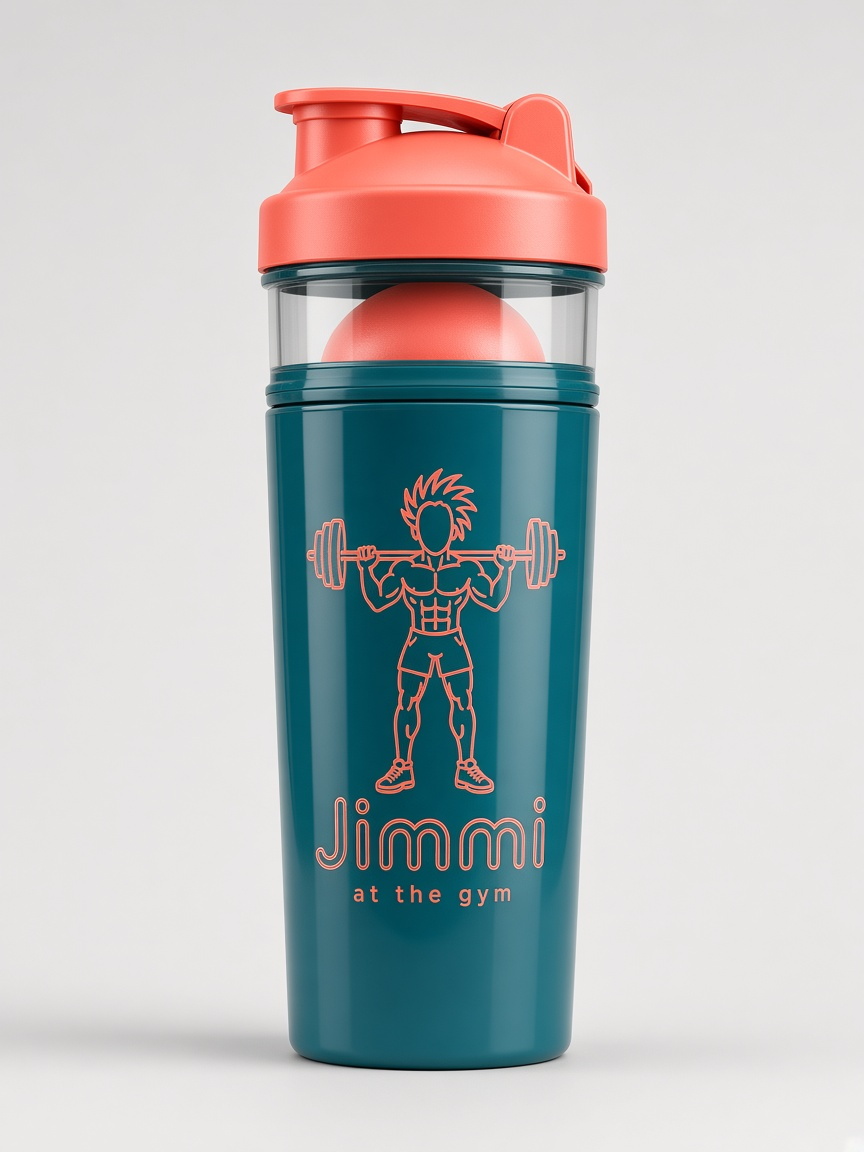
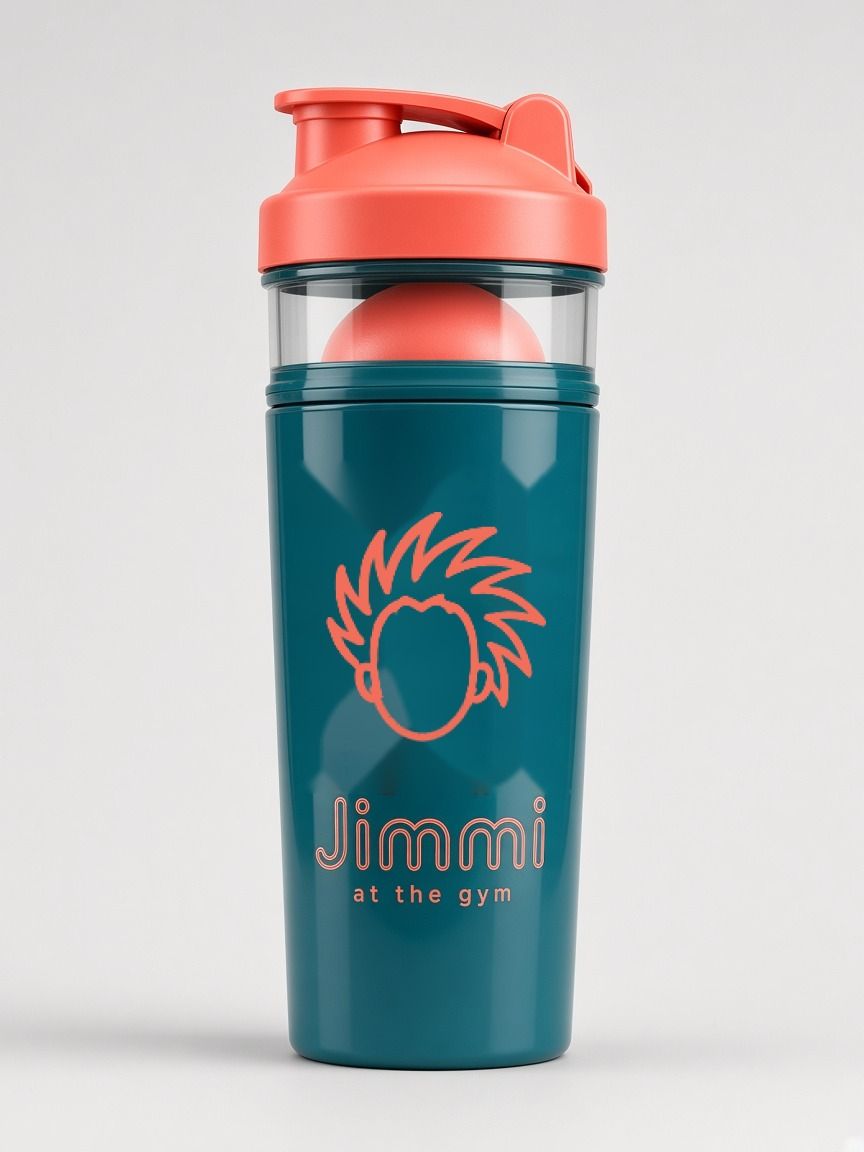
Swap Buff Jimmi for Jimmi head on Teal&Coral 7/8, Navy&Yellow, Peach Crop, Shaker

Changed region(s): [[0.3438, 0.4062, 0.6562, 0.6875]]

diff --git a/products.js b/products.js
@@ -3,16 +3,16 @@ window.JIMMI_PRODUCTS = [
   {"id": "leggings-burgundy-gold", "name": "Burgundy & Gold Leggings", "blurb": "Burgundy leggings with a gold Jimmi head belt buckle on the front, gold stripes down both sides, and \"If Jimmi can do it, anyone can.\" on the back waistband.", "sku": "Preview · price TBD", "image": "assets/products/print/A1-burgundy-gold-leggings.jpg", "etsyUrl": "https://www.etsy.com", "tag": "New · Women"},
   {"id": "leggings-military-green", "name": "Military Green Leggings", "blurb": "Military green leggings with a white waistband reading \"Buff Jimmi\" and a white JIMMI down the lower leg, and a green Jimmi head on the back band.", "sku": "Preview · price TBD", "image": "assets/products/print/military-green-leggings.jpg", "etsyUrl": "https://www.etsy.com", "tag": "New · Women"},
   {"id": "leggings-navy-gold", "name": "Navy & Gold Leggings", "blurb": "Navy leggings with gold side stripes, a small gold Jimmi head belt buckle on the waistband, and the gold \"Jimmi / at the gym\" wordmark on the hip.", "sku": "Preview · price TBD", "image": "assets/products/print/T1-navy-gold-leggings.jpg", "etsyUrl": "https://www.etsy.com", "tag": "New · Women"},
-  {"id": "leggings-teal-coral-78", "name": "Teal & Coral 7/8 Leggings", "blurb": "Teal 7/8 leggings with a coral waistband, coral \"Jimmi at the gym\" down the outer left thigh, Buff Jimmi logo on the back waistband.", "sku": "Preview · price TBD", "image": "assets/products/print/A2-teal-coral-leggings.jpg", "etsyUrl": "https://www.etsy.com", "tag": "New · Women"},
-  {"id": "shaker-teal-coral", "name": "Teal & Coral Shaker", "blurb": "Glossy teal shaker bottle with a coral lid and the coral Buff Jimmi logo and wordmark. Pairs with the Teal & Coral 7/8 Leggings.", "sku": "Preview · price TBD", "image": "assets/products/print/B2-teal-coral-shaker.jpg", "etsyUrl": "https://www.etsy.com", "tag": "New · Shaker"},
-  {"id": "peach-crop", "name": "The Peach Crop", "blurb": "Peach crop hoodie with sky-blue neon Buff Jimmi on the chest.", "sku": "Preview · price TBD", "image": "assets/products/new/peach-crop.jpg", "etsyUrl": "https://www.etsy.com", "tag": "New · Women"},
+  {"id": "leggings-teal-coral-78", "name": "Teal & Coral 7/8 Leggings", "blurb": "Teal 7/8 leggings with a coral waistband, coral \"Jimmi at the gym\" down the outer left thigh, white Jimmi head logo on the back waistband.", "sku": "Preview · price TBD", "image": "assets/products/print/A2-teal-coral-leggings.jpg", "etsyUrl": "https://www.etsy.com", "tag": "New · Women"},
+  {"id": "shaker-teal-coral", "name": "Teal & Coral Shaker", "blurb": "Glossy teal shaker bottle with a coral lid and the coral Jimmi head logo and wordmark. Pairs with the Teal & Coral 7/8 Leggings.", "sku": "Preview · price TBD", "image": "assets/products/print/B2-teal-coral-shaker.jpg", "etsyUrl": "https://www.etsy.com", "tag": "New · Shaker"},
+  {"id": "peach-crop", "name": "The Peach Crop", "blurb": "Peach crop hoodie with a sky-blue neon Jimmi head on the chest.", "sku": "Preview · price TBD", "image": "assets/products/new/peach-crop.jpg", "etsyUrl": "https://www.etsy.com", "tag": "New · Women"},
   {"id": "gym-tee-neon", "name": "Jimmi Gym Tee — Black Neon", "blurb": "Athletic tee with the original neon Buff Jimmi logo. Sizes XS–2XL.", "sku": "Preview · price TBD", "image": "assets/products/print/gym-tee-black-print.jpg", "etsyUrl": "https://www.etsy.com", "tag": "New · Gym Tee"},
   {"id": "sky-pants", "name": "Sky Blue Pants", "blurb": "JIMMI down the leg with the logo under it.", "sku": "Preview · price TBD", "image": "assets/products/print/sky-pants-print.jpg", "etsyUrl": "https://www.etsy.com", "tag": "New · Women"},
   {"id": "tee4-white", "name": "Tee 4 — White", "blurb": "Buff Jimmi logo with red hair, black and red sleeve stripes. \"Got your jimmies on?\" on the back.", "sku": "Preview · price TBD", "image": "assets/products/print/tee4-white-print.jpg", "etsyUrl": "https://www.etsy.com", "tag": "New · Tee"},
   {"id": "ls3-black", "name": "Long Sleeve 3 — Black", "blurb": "White Buff Jimmi logo, red hair, red and white sleeve stripes.", "sku": "Preview · price TBD", "image": "assets/products/print/ls3-black-print.jpg", "etsyUrl": "https://www.etsy.com", "tag": "New · Long Sleeve"},
   {"id": "ls2-white", "name": "Long Sleeve 2 — White", "blurb": "Smooth jersey long sleeve with the Tee 4 design.", "sku": "Preview · price TBD", "image": "assets/products/print/ls2-white-print.jpg", "etsyUrl": "https://www.etsy.com", "tag": "New · Long Sleeve"},
   {"id": "tee6-black", "name": "Tee 6 — Black", "blurb": "White Buff Jimmi logo, red hair, printed red and white stripes over the shoulders and down the sleeves.", "sku": "Preview · price TBD", "image": "assets/products/print/tee6-black-print-v3.jpg", "etsyUrl": "https://www.etsy.com", "tag": "New · Tee"},
-  {"id": "leggings-navy-yellow", "name": "Navy & Yellow Leggings", "blurb": "Full-length high-waist leggings, yellow JIMMI wordmark down the leg, Buff Jimmi logo on the calf.", "sku": "Preview · price TBD", "image": "assets/products/print/leggings-A1.jpg", "etsyUrl": "https://www.etsy.com", "tag": "New · Women"},
+  {"id": "leggings-navy-yellow", "name": "Navy & Yellow Leggings", "blurb": "Full-length high-waist leggings, yellow JIMMI wordmark down the leg, Jimmi head logo on the calf.", "sku": "Preview · price TBD", "image": "assets/products/print/leggings-A1.jpg", "etsyUrl": "https://www.etsy.com", "tag": "New · Women"},
   {"id": "leggings-black-red", "name": "Black & Red 7/8 Leggings", "blurb": "Black 7/8 leggings with a thin red side stripe and a red \"Jimmi at the gym\" down the thigh. Clean and simple.", "sku": "Preview · price TBD", "image": "assets/products/print/leggings-A2-v2.jpg", "etsyUrl": "https://www.etsy.com", "tag": "New · Women"},
   {"id": "leggings-teal-coral", "name": "Teal & Coral Color-Block Leggings", "blurb": "Teal on top, coral below, with a teal JIMMI and \"at the gym\" down the lower leg. No logo, just the wordmark.", "sku": "Preview · price TBD", "image": "assets/products/print/leggings-A4-v2.jpg", "etsyUrl": "https://www.etsy.com", "tag": "New · Women"},
   {"id": "leggings-cobalt-orange", "name": "Cobalt & Orange 7/8 Leggings", "blurb": "7/8-length cobalt leggings, orange wordmark on the thigh, orange Jimmi head on the ankle, and \"If Jimmi can do it, anyone can.\" on the back waistband.", "sku": "Preview · price TBD", "image": "assets/products/print/leggings-A5.jpg", "etsyUrl": "https://www.etsy.com", "tag": "New · Women"}

diff --git a/sw.js b/sw.js
@@ -1,4 +1,4 @@
-const C='jimmi-v17';
+const C='jimmi-v18';
 self.addEventListener('install',e=>{e.waitUntil(caches.open(C).then(c=>c.addAll(['./','index.html','styles.css','products.js','manifest.webmanifest','icon-192.png','studio.html','studio.css','studio.js','assets/studio/logo-body.png','assets/studio/logo-hair.png','assets/studio/wordmark.png'])));self.skipWaiting();});
 self.addEventListener('activate',e=>{e.waitUntil(caches.keys().then(k=>Promise.all(k.filter(x=>x!==C).map(x=>caches.delete(x)))));self.clients.claim();});
 self.addEventListener('fetch',e=>{const r=e.request;if(r.method!=='GET'||r.headers.has('range'))return;
